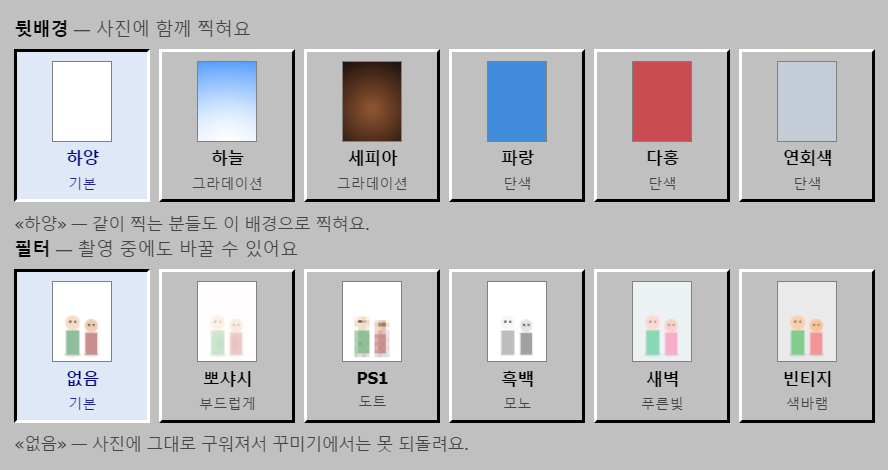
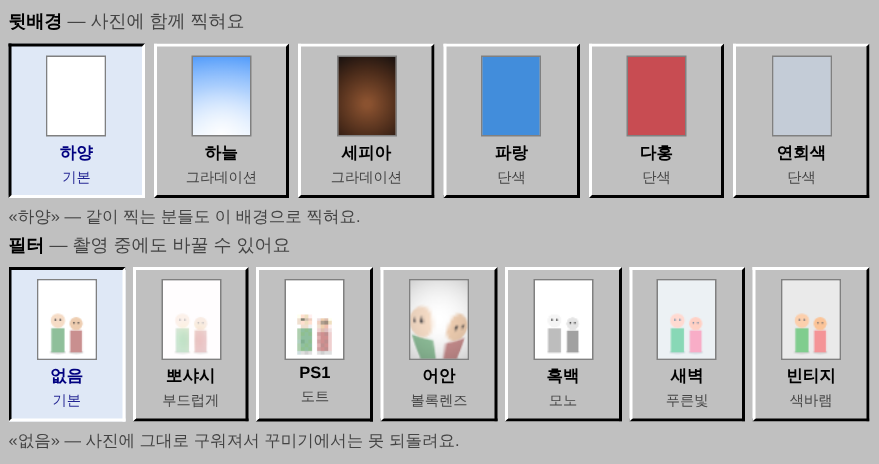
docs(help): 10편 뒷배경 · 필터 그림을 지금 화면으로 다시 찍음 — 어안 필터가 보이게
- hosting/help/img/10/06.png: 지금 앱 로비(뒷배경 여섯 · 필터 일곱 — 어안 포함)
- hosting/help/10.html: «예전 화면» 캡션 걷음

Changed region(s): [[0.0, 0.0302, 1.0, 0.9655]]

diff --git a/hosting/help/10.html b/hosting/help/10.html
@@ -41,7 +41,7 @@
   <li><b>뒷배경</b> — 사진 뒤에 깔리는 배경이에요. 여러 개를 고르면 컷마다 골고루 섞여요. 같이 찍는 사람도 같은 배경으로 찍혀요.</li>
   <li><b>필터</b> — 뽀샤시 · PS1(도트) · 어안(볼록렌즈) · 흑백 · 새벽(푸른빛) · 빈티지(색바램)가 있어요. 촬영 중에도 바꿀 수 있어서 미리 안 골라도 돼요.</li>
 </ul>
-<figure><img src="/img/10/06.png" loading="lazy" alt="뒷배경과 필터"><figcaption>예전 화면이에요 — 지금은 필터에 «어안» 이 더 있어요</figcaption></figure>
+<figure><img src="/img/10/06.png" loading="lazy" alt="뒷배경과 필터"></figure>
 <figure><img src="/img/10/07.png" loading="lazy" alt="같이 찍을 사람"><figcaption>같이 찍을 사람 — 먼저 들어온 순서대로 4명</figcaption></figure>
 
 <h2>📷 촬영</h2>
